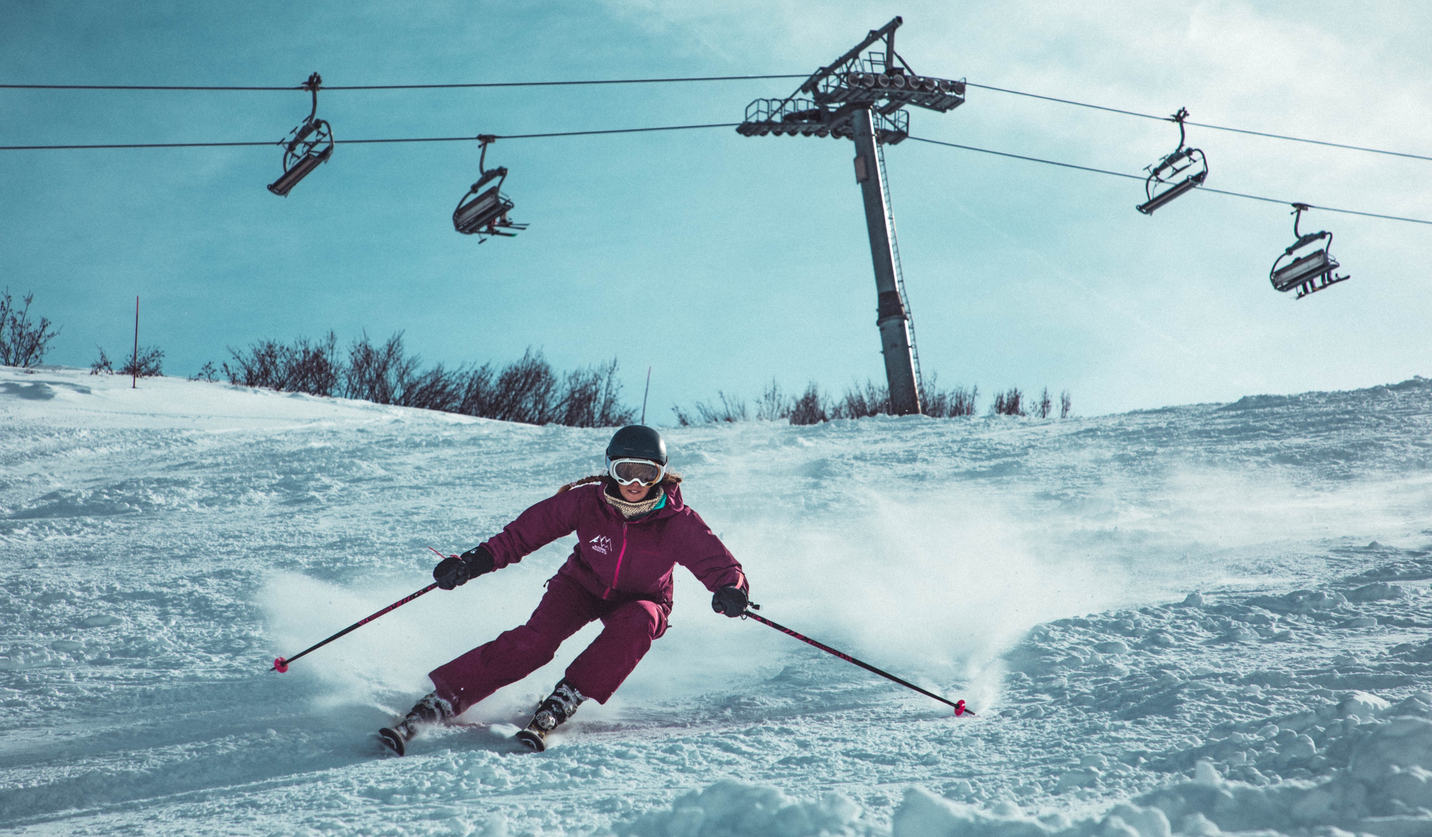
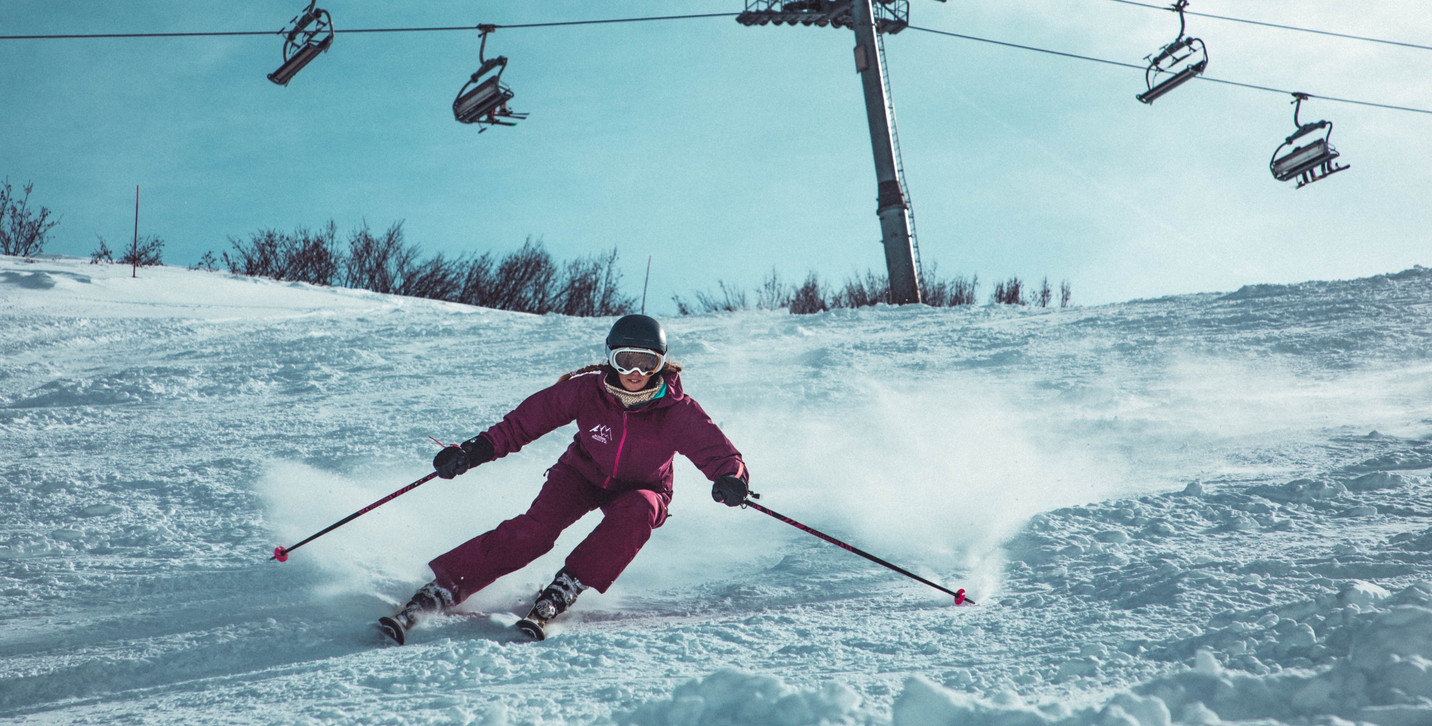
Footer black and white styling adjustments, README.md summary of project editted

diff --git a/src/components/About.jsx b/src/components/About.jsx
@@ -1,4 +1,5 @@
 import React from "react";
+import Footer from "./Footer";
 import aboutHeroImg from "../assets/about-hero-img.jpeg";
 import "../styles/About.css";
 
@@ -8,15 +9,18 @@ const About = () => {
       <div className="about-img">
         <img src={aboutHeroImg} alt="Woman Sking down slope" />
       </div>
-      <div className="about-container">
-        <h2 className="about-header">About Us</h2>
-        <div className="header-h-line"></div>
-        <div className="about-text">
-          This page is about the amazingly warm and hefty winter collection we
-          present to you designed and created by our finest artisans. We hope
-          our work inspires and protects you from the harshet conditions on your
-          adventures.
+      <div className="about-page">
+        <div className="about-container">
+          <h2 className="about-header">About Us</h2>
+          <div className="header-h-line"></div>
+          <div className="about-text">
+            This page is about the amazingly warm and hefty winter collection we
+            present to you designed and created by our finest artisans. We hope
+            our work inspires and protects you from the harshet conditions on
+            your adventures.
+          </div>
         </div>
+        <Footer color={"black"} />
       </div>
     </>
   );

diff --git a/src/components/Footer.jsx b/src/components/Footer.jsx
@@ -1,9 +1,23 @@
 import React from "react";
+import githubLogoWhite from "../assets/github-mark-white.png";
 import githubLogo from "../assets/GitHub-Mark-64px.png";
-import linkedInLogo from "../assets/LinkedIn-in-96.png";
+import linkedInLogoWhite from "../assets/In-White-72.png";
+import linkedInLogo from "../assets/In-black-96.png";
 
-const Footer = () => (
-  <footer>
+const Footer = ({ color }) => (
+  <footer
+    style={
+      color === "white"
+        ? { paddingBottom: "20px", height: "9vh" }
+        : {
+            height: "9vh",
+            color: "black",
+            display: "flex",
+            gap: "10px",
+            position: "relative",
+          }
+    }
+  >
     <div className="footer-icons">
       <a
         href="https://github.com/dicristea/"
@@ -12,7 +26,7 @@ const Footer = () => (
       >
         <img
           className="sourceGithub"
-          src={githubLogo}
+          src={color === "white" ? githubLogoWhite : githubLogo}
           alt="Diana's Github Profile"
         />
       </a>
@@ -23,7 +37,7 @@ const Footer = () => (
       >
         <img
           className="sourceLinkedIn"
-          src={linkedInLogo}
+          src={color === "white" ? linkedInLogoWhite : linkedInLogo}
           alt="Diana's LinkedIn Profile"
         />
       </a>

diff --git a/src/components/App.jsx b/src/components/App.jsx
@@ -53,20 +53,32 @@ function App() {
       />
       <main className="main">
         {currentPage === "Home" && (
-          <Home navigateToCatalog={navigateToCatalog} />
+          <>
+            <Home navigateToCatalog={navigateToCatalog} />
+            <Footer color={"white"} />
+          </>
         )}
-        {currentPage === "About" && <About />}
+        {currentPage === "About" && (
+          <>
+            <About />
+          </>
+        )}
         {currentPage === "Catalog" && (
-          <Catalog updateItemQuantity={updateItemQuantity} />
+          <>
+            <Catalog updateItemQuantity={updateItemQuantity} />
+            <Footer color={"black"} />
+          </>
         )}
         {currentPage === "ShoppingCart" && (
-          <ShoppingCart
-            itemQuantity={itemQuantity}
-            updateItemQuantity={updateItemQuantity}
-          />
+          <>
+            <ShoppingCart
+              itemQuantity={itemQuantity}
+              updateItemQuantity={updateItemQuantity}
+            />
+            <Footer color={"black"} page={"cart"} />
+          </>
         )}
       </main>
-      <Footer />
     </div>
   );
 }

diff --git a/src/styles/App.css b/src/styles/App.css
@@ -1,6 +1,6 @@
 .App {
   min-width: 100%;
-  min-height: calc(300px + 15vw);
+  min-height: 100vh;
 }
 
 .App-logo {
@@ -10,6 +10,10 @@
 }
 
 /* MAIN Homepage */
+
+main {
+  height: 100vh;
+}
 
 .homepage-container {
   z-index: 2;
@@ -29,8 +33,6 @@
   left: 0;
   bottom: 0;
   right: 0;
-  width: 100%;
-  height: 100%;
   z-index: 1;
   opacity: 80%;
 }
@@ -42,13 +44,13 @@
 }
 
 .hero-headline {
-  max-width: 100%;
+  max-width: 80%;
   z-index: 2;
   color: white;
   font-weight: 800 !important;
   text-align: center;
   display: flex;
-  padding: 10vw;
+  padding: 8vh 8vw;
   background-color: rgb(0 0 0 / 55%);
   border-radius: var(--border-radius);
   flex-direction: column;

diff --git a/src/styles/Card.css b/src/styles/Card.css
@@ -1,10 +1,16 @@
 .card-holder {
   display: grid;
-  grid-template-columns: repeat(auto-fit, minmax(200px, 0.7fr));
+  grid-template-columns: repeat(auto-fit, minmax(180px, 0.6fr));
   justify-content: center;
   justify-items: center;
   gap: 25px;
   position: relative;
+}
+
+@media only screen and (max-width: 500px) {
+  .card-holder {
+    grid-template-columns: repeat(auto-fit, minmax(150px, 0.6fr));
+  }
 }
 
 .card {
@@ -24,6 +30,7 @@
   padding: 15px;
   display: grid;
   grid-template-columns: 1fr min-content;
+  gap: 5px;
 }
 
 .item-text {

diff --git a/src/components/Header.jsx b/src/components/Header.jsx
@@ -25,9 +25,13 @@ const Header = ({
       </button>
     </div>
     <div>
-      <button className="container bag-icon-container" onClick={navigateToCart}>
+      <button
+        className="container bag-icon-container"
+        aria-label="Shopping Bag"
+        onClick={navigateToCart}
+      >
         <img src={Bag} alt="Shopping Bag" />
-        {itemQuantity}
+        {itemQuantity !== 0 && itemQuantity}
       </button>
     </div>
   </header>

diff --git a/src/styles/index.css b/src/styles/index.css
@@ -91,14 +91,13 @@ button.container > img {
 /* Footer */
 
 footer {
-  display: flex;
-  flex-direction: column;
+  color: white;
+  display: grid;
   align-items: center;
   justify-content: center;
-  gap: 0.5rem;
-  padding: 20px 0px;
-  position: relative;
-  z-index: 1;
+  justify-items: center;
+  position: fixed;
+  z-index: 10;
   bottom: 0;
   left: 0;
   right: 0;

diff --git a/src/styles/About.css b/src/styles/About.css
@@ -6,8 +6,9 @@
 }
 
 .about-img > img {
-  height: auto;
+  height: 30vh;
   width: 100%;
+  object-fit: cover;
 }
 
 .about-header {
@@ -16,4 +17,11 @@
 
 .about-text {
   padding: 15px 5vw;
+}
+
+.about-page {
+  display: flex;
+  flex-direction: column;
+  justify-content: space-between;
+  height: 70vh;
 }

diff --git a/src/components/ShoppingCart.jsx b/src/components/ShoppingCart.jsx
@@ -28,7 +28,7 @@ const ShoppingCart = ({ itemQuantity, updateItemQuantity }) => {
         (accumulator, currentValue) =>
           Number(accumulator) + Number(currentValue)
       );
-    setSubtotal(`${totalPrice}.00`);
+    setSubtotal(`${totalPrice}`);
   };
 
   useEffect(() => {

diff --git a/README.md b/README.md
@@ -6,25 +6,29 @@ A shopping cart experience created using ReactJS! Here, I explore the usage and 
 
 ## Features
 
-1. You should have at least two pages (a homepage and a shop page, which includes your shopping cart). Let a user navigate between the pages with a navigation bar, which will be shown on both routes.
-
-2. To your homepage, you can add whatever you’d like! A few images or information will be totally fine; it doesn’t have to be something fancy. The main goal of the project is to focus on setting up the shopping cart. The homepage is there to practice routing using react-router-dom.
-
-3. On your shopping cart route, a user should see a sticky bar (it can be just a top section as well), which displays the number of items currently in the cart. You should also have a button next to it where you can go to the cart to checkout and pay (however we are not going to implement this logic here).
-
-4. Build individual card items for each of your products. Display an input field on it, which lets a user manually type in how many items they want to buy. Also, add an increment and decrement button next to it for fine-tuning. You can also display a title for each product as well as an “Add To Cart” button.
-
-5. Once a user has submitted their order, the amount on the cart itself should adjust.
-   Make sure to test your app thoroughly using the React Testing Library. Take care that you don’t directly test react-router-dom, since it is an external library and the developers working on it must have tested the library already.
+- Home, About, Catalong, and Shopping Cart pages with easy UI navigation
+- Sticky Navgation Bar shopping bag icon displays quantity of items currently in the cart
+- Custom input for quanitity increment and decrement, readonly
+- Maximum 5 of one item can be in the cart.
+- On submitting an order or editting the cart, the amount in the cart and order summary adjusts, as well at the total price
+- Can remove items quickly from the cart via 'x'
 
 ## Todos
 
-- Make UI more responsive for phone screens --> css media queries
+- Hover labels on all Icon Buttons
+- Use react routing rather to update URL on navigation to different pages.
 - Use useContext rather than prop drilling
+- "Proceed to Checkout" is currently inactive.
 
 ## What I learned
 
-- working with state and understanding when I could use hooks (API keys, endpoints, error handling)
+- Using "body::before" alongside a sticky nav bar for full page background image
+  Check: <a href="https://forum.freecodecamp.org/t/why-does-body-before-code-work-and-not-body/350130">Freecodecamp Article</a>
+- Using an object as a data structure for easy configuration of catalog and shopping cart information.
+- Using Object.keys(), Object.values() to return array of just those values.
+- working with state and understanding when to use useEffect to update only parts of a page
+- Practiced Git workflow: Git branching, github pull requests, editting commits
+- Practiced using array methods, spread syntax, inline styling, media queries
 
 ## Sources
 
@@ -35,6 +39,7 @@ A shopping cart experience created using ReactJS! Here, I explore the usage and 
 - Catalog: Blue White Suit Photo by <a href="https://unsplash.com/@phodskins?utm_source=unsplash&utm_medium=referral&utm_content=creditCopyText">Patrick Hodskins</a> on <a href="https://unsplash.com/photos/YKikzmEOJXM?utm_source=unsplash&utm_medium=referral&utm_content=creditCopyText">Unsplash</a>
 - Catalog: Yellow Pants Photo by <a href="https://unsplash.com/@rodograph?utm_source=unsplash&utm_medium=referral&utm_content=creditCopyText">Victor Rodvang</a> on <a href="https://unsplash.com/photos/kIavtjR0sZY?utm_source=unsplash&utm_medium=referral&utm_content=creditCopyText">Unsplash</a>
 - About Hero Photo by <a href="https://unsplash.com/@moorecreative?utm_source=unsplash&utm_medium=referral&utm_content=creditCopyText">Harrison Moore</a> on <a href="https://unsplash.com/photos/pNuBdhn8vKU?utm_source=unsplash&utm_medium=referral&utm_content=creditCopyText">Unsplash</a>
+- Site inspired by <a href="https://www.moncler.com/en-us/">Moncler</a>
 
 ## React
 
